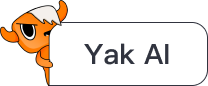
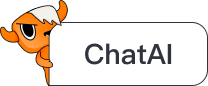
feat: 1、Yak Runner -> Runner 2、任务栏图标标题名称修改 3、appId修改 4、chartAI图片替换

Changed region(s): [[0.4038, 0.4884, 0.8365, 0.7674], [0.1442, 0.2791, 0.1731, 0.3023], [0.0577, 0.2791, 0.0865, 0.3023]]

diff --git a/app/renderer/src/main/src/pages/layout/publicMenu/ExtraMenu.tsx b/app/renderer/src/main/src/pages/layout/publicMenu/ExtraMenu.tsx
@@ -159,7 +159,7 @@ export const ExtraMenu: React.FC<ExtraMenuProps> = React.memo((props) => {
                     }}
                     icon={<SolidTerminalIcon />}
                 >
-                    Yak Runner
+                    Runner
                 </YakitButton>
             ) : (
                 <>
@@ -206,7 +206,7 @@ export const ExtraMenu: React.FC<ExtraMenuProps> = React.memo((props) => {
                         }}
                         icon={<SolidTerminalIcon />}
                     >
-                        Yak Runner
+                        Runner
                     </YakitButton>
                     <NotepadMenu isExpand={false} onRouteMenuSelect={onMenuSelect} />
                     <ImportLocalPlugin

diff --git a/app/renderer/src/main/src/routes/newRoute.tsx b/app/renderer/src/main/src/routes/newRoute.tsx
@@ -219,7 +219,7 @@ export const YakitRouteToPageInfo: Record<YakitRoute, {label: string; describe?:
     "db-ports": {label: "端口"},
     "db-domains": {label: "域名"},
     cve: {label: "CVE 管理"},
-    yakScript: {label: "Yak Runner", describe: "使用特有的 Yaklang 进行编程，直接调用引擎最底层能力 POC 种类"},
+    yakScript: {label: "Runner", describe: "使用特有的 Yaklang 进行编程，直接调用引擎最底层能力 POC 种类"},
     "payload-manager": {
         label: "Payload",
         describe: "通过上传文件、手动删改等，自定义 Payload，可在爆破和 Web Fuzzer 中进行使用"

diff --git a/app/renderer/src/main/src/pages/home/Home.tsx b/app/renderer/src/main/src/pages/home/Home.tsx
@@ -144,7 +144,7 @@ const Home: React.FC<HomeProp> = (props) => {
     const toolsList = useMemo(() => {
         return [
             {
-                label: "YakRunner",
+                label: "Runner",
                 icon: <PublicToolYakScriptIcon />,
                 iconStyle: {backgroundColor: "#8863f7", padding: 1},
                 desc: "Yak语言编辑器",

diff --git a/app/renderer/src/main/public/index.html b/app/renderer/src/main/public/index.html
@@ -7,7 +7,7 @@
     <meta name="theme-color" content="#000000"/>
     <meta
             name="description"
-            content="Yakit"
+            content="CSPG"
     />
     <meta name="referrer" content="no-referrer" />
     <link rel="apple-touch-icon" href="%PUBLIC_URL%/logo192.png"/>
